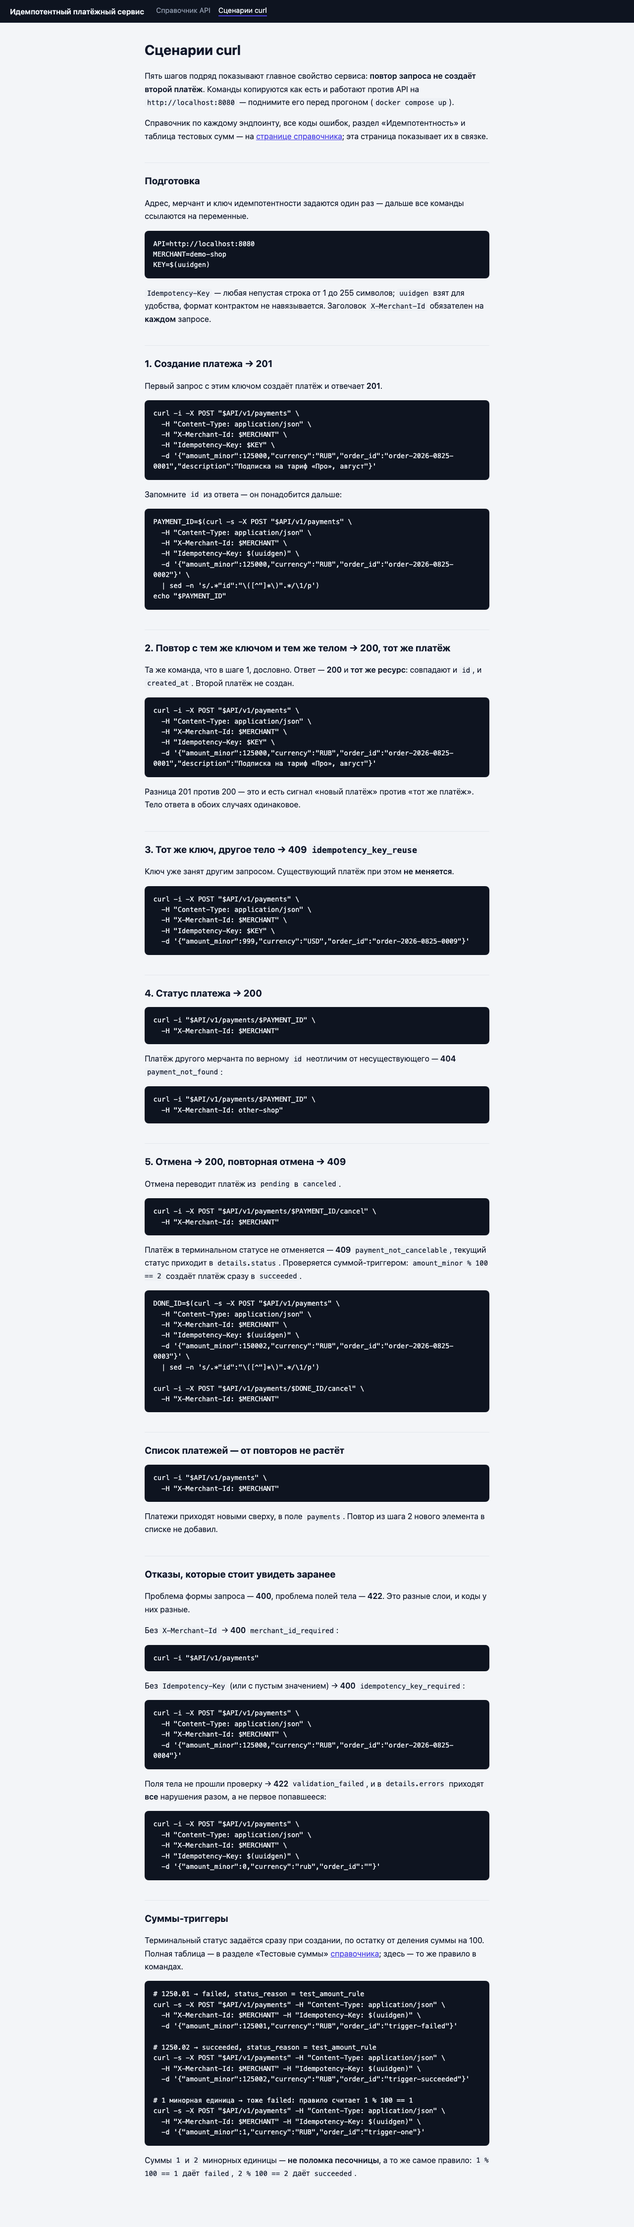
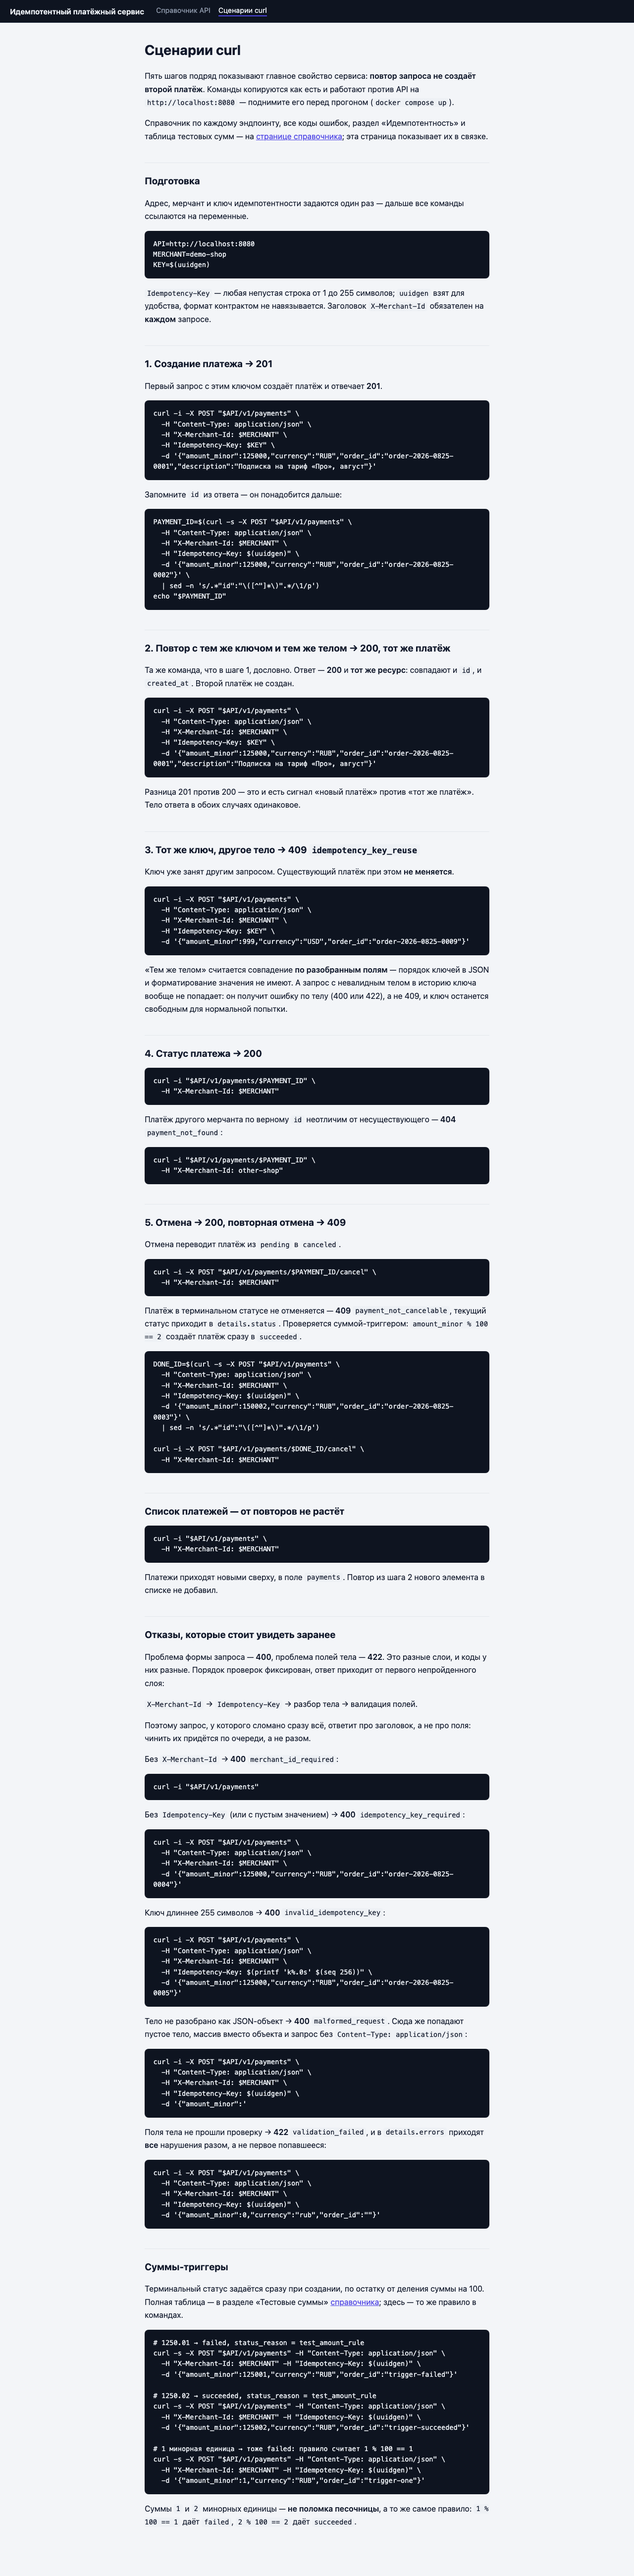
docs(site): контракт с поправками A-F, сценарии на два новых кода
Ветка обновлена от main: ErrorCode вырос до десяти, сборка проходит без
правок — оба новых кода в контракте описаны, сверка их приняла. Порядок
проверок и правило про повтор с невалидным телом рендерятся из контракта,
переписывать их своими словами не стал.

В сценарии curl добавлены примеры на invalid_idempotency_key и
malformed_request, абзац про фиксированный порядок проверок и оговорка,
что невалидное тело в историю ключа не попадает.

design/tokens.css слит вместе с макетом — сборка берёт его сама, скриншоты
пересняты с настоящими токенами.

Changed region(s): [[0.1875, 0.0, 0.7812, 0.9964], [0.0312, 0.0, 0.0938, 0.0311], [0.125, 0.0, 0.1562, 0.0311]]

diff --git a/docs-site/src/scenarios.md b/docs-site/src/scenarios.md
@@ -76,6 +76,11 @@ curl -i -X POST "$API/v1/payments" \
   -d '{"amount_minor":999,"currency":"USD","order_id":"order-2026-0825-0009"}'
 ```
 
+«Тем же телом» считается совпадение **по разобранным полям** — порядок ключей
+в JSON и форматирование значения не имеют. А запрос с невалидным телом в
+историю ключа вообще не попадает: он получит ошибку по телу (400 или 422),
+а не 409, и ключ останется свободным для нормальной попытки.
+
 ## 4. Статус платежа → 200
 
 ```bash
@@ -129,7 +134,13 @@ curl -i "$API/v1/payments" \
 ## Отказы, которые стоит увидеть заранее
 
 Проблема формы запроса — **400**, проблема полей тела — **422**. Это разные
-слои, и коды у них разные.
+слои, и коды у них разные. Порядок проверок фиксирован, ответ приходит от
+первого непройденного слоя:
+
+`X-Merchant-Id` → `Idempotency-Key` → разбор тела → валидация полей.
+
+Поэтому запрос, у которого сломано сразу всё, ответит про заголовок, а не про
+поля: чинить их придётся по очереди, а не разом.
 
 Без `X-Merchant-Id` → **400** `merchant_id_required`:
 
@@ -145,6 +156,28 @@ curl -i -X POST "$API/v1/payments" \
   -H "Content-Type: application/json" \
   -H "X-Merchant-Id: $MERCHANT" \
   -d '{"amount_minor":125000,"currency":"RUB","order_id":"order-2026-0825-0004"}'
+```
+
+Ключ длиннее 255 символов → **400** `invalid_idempotency_key`:
+
+```bash
+curl -i -X POST "$API/v1/payments" \
+  -H "Content-Type: application/json" \
+  -H "X-Merchant-Id: $MERCHANT" \
+  -H "Idempotency-Key: $(printf 'k%.0s' $(seq 256))" \
+  -d '{"amount_minor":125000,"currency":"RUB","order_id":"order-2026-0825-0005"}'
+```
+
+Тело не разобрано как JSON-объект → **400** `malformed_request`. Сюда же
+попадают пустое тело, массив вместо объекта и запрос без
+`Content-Type: application/json`:
+
+```bash
+curl -i -X POST "$API/v1/payments" \
+  -H "Content-Type: application/json" \
+  -H "X-Merchant-Id: $MERCHANT" \
+  -H "Idempotency-Key: $(uuidgen)" \
+  -d '{"amount_minor":'
 ```
 
 Поля тела не прошли проверку → **422** `validation_failed`, и в

diff --git a/sessions/docs.md b/sessions/docs.md
@@ -183,6 +183,37 @@ $ python3 scripts/test_hooks.py
 заложено в самих токенах). Контраст не пострадал: основной текст `#0f172a`
 на светлом фоне. Скриншоты — `docs-site/screenshots/`.
 
+## Контракт с поправками A–F (#32, PR #38) — ветка обновлена
+
+Проджект предупредил, что ветка на свежем `main` будет красной: `ErrorCode`
+вырос до десяти, а сборка падает на необъяснённом коде. Проверено — **ветка
+зелёная**: оба новых кода в контракте описаны в таблице кодов, поэтому сверка
+их приняла:
+
+```
+$ npm run build
+Кодов ошибок: 10 — merchant_id_required, invalid_merchant_id,
+idempotency_key_required, invalid_idempotency_key, malformed_request,
+validation_failed, idempotency_key_reuse, request_in_progress,
+payment_not_found, payment_not_cancelable
+Токены дизайна: …/design/tokens.css
+```
+
+Просьбу «вытащить в раздел «Идемпотентность» порядок проверок и правило про
+повтор с невалидным телом» выполнять не пришлось: правило уже стоит в самом
+разделе (абзац про сравнение после валидации), порядок проверок — в «Формате
+ошибок». Оба рендерятся из контракта. Переписывать их своими словами — завести
+вторую копию, от которой мы уходим.
+
+Своего текста потребовали только сценарии `curl` — они не из контракта:
+добавлены примеры на `invalid_idempotency_key` (ключ длиннее 255) и
+`malformed_request` (битый JSON), абзац про порядок проверок и оговорка, что
+невалидное тело в историю ключа не попадает.
+
+Макет (#10) слит тем же заходом, поэтому `design/tokens.css` теперь настоящий:
+сборка берёт его сама и в рабочей копии, и в образе (`Токены дизайна:
+/ctx/design/tokens.css`). Скриншоты пересняты.
+
 ## Что осталось
 
 Пункт 4 задачи — прогон примеров `curl` на живом API (#11). Команды написаны
